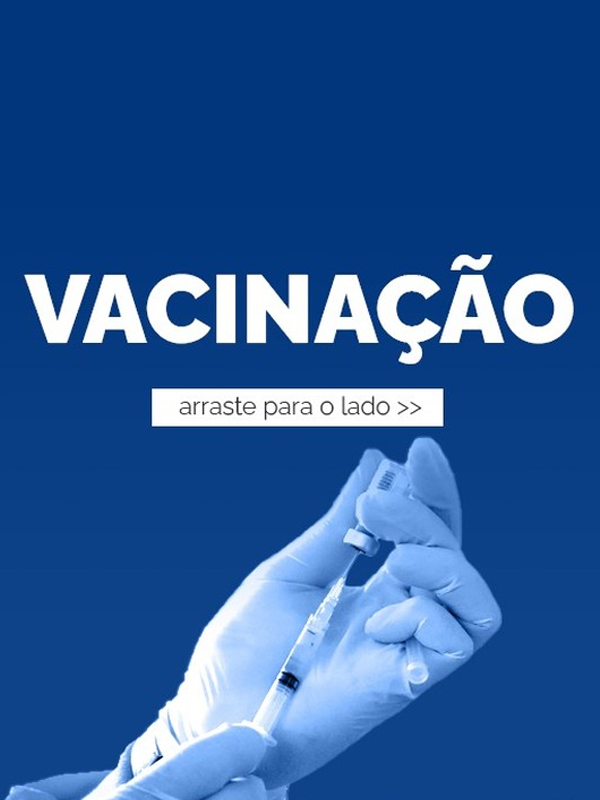
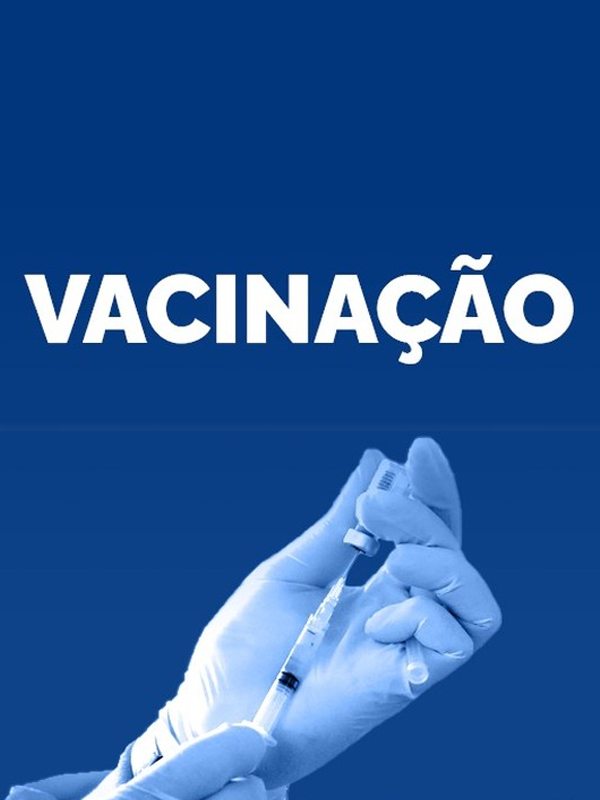
Vídeos

Changed region(s): [[0.24, 0.4688, 0.75, 0.5625]]

diff --git a/index.php b/index.php
@@ -1435,6 +1435,17 @@ $comentarios = $pdo->query("SELECT * FROM comentarios ORDER BY data DESC")->fetc
           </div>
           <!-- End Gallery Item -->
 
+          <div class="col-lg-3 col-md-4">
+            <div class="gallery-item">
+              <a href="assets/videos/drm-vacinacao.mp4" class="glightbox" data-gallery="images-gallery"
+                data-type="video" data-title="Vacinação" data-description="Aula">
+                <img src="assets/img/gallery/drm-vacinacao-1.png" alt="" class="img-fluid">
+                <div class="caption">Vacinação</div>
+              </a>
+            </div>
+          </div>
+          <!-- End Gallery Item -->
+
         </div>
 
       </div>
